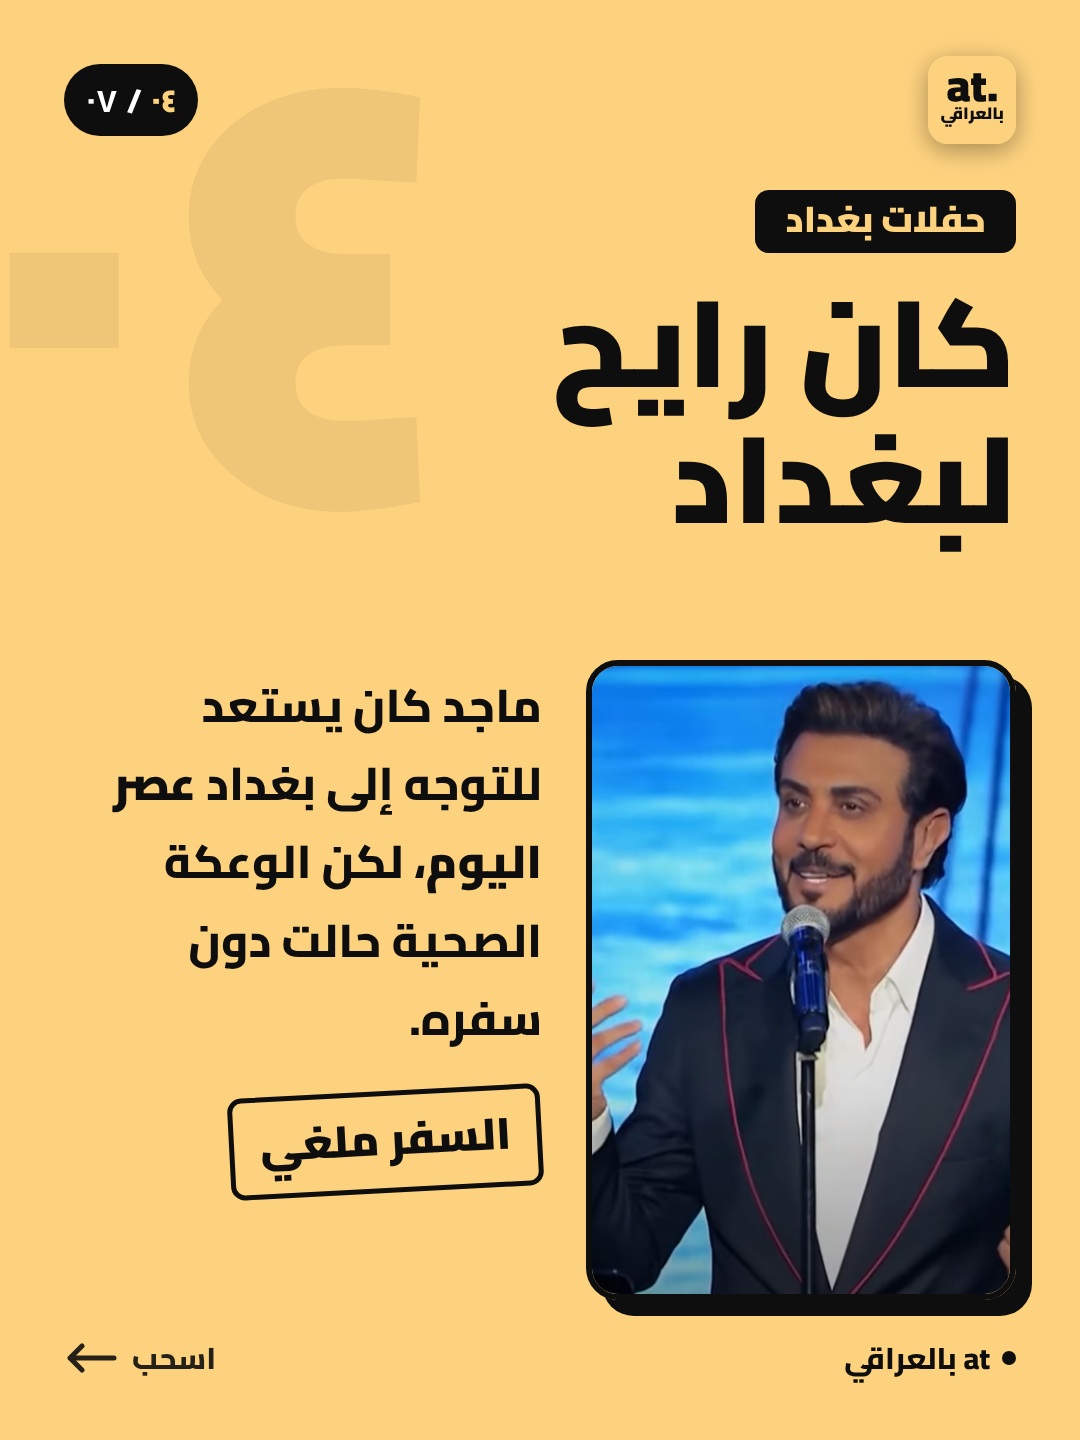
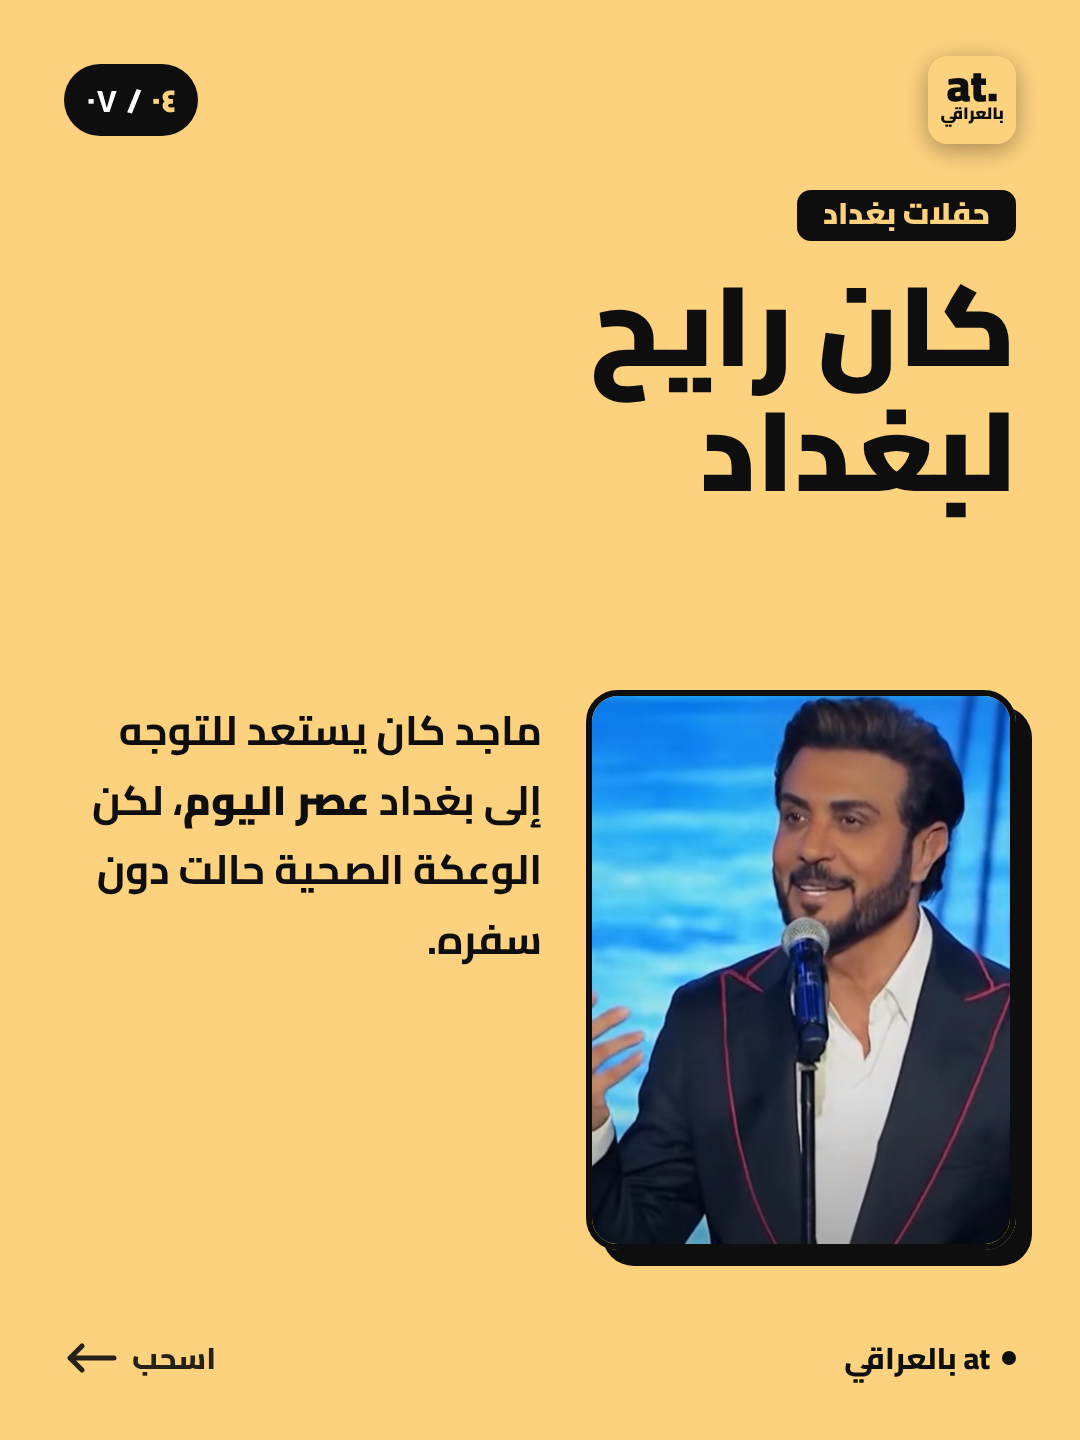
Simplify carousel typography and layout
Claude-Session: https://claude.ai/code/session_01RScGTdhGvBmbeKDUXMKRjS

diff --git a/carousels/majed-health/carousel.html b/carousels/majed-health/carousel.html
@@ -21,9 +21,9 @@ body{background:#222;font-family:Cairo,sans-serif}
 .ftr .brand i{width:14px;height:14px;background:var(--y);border-radius:50%;display:block}
 .ftr .swipe{display:flex;align-items:center;gap:14px;color:#fff;opacity:.9}
 .ftr .swipe svg{width:54px;height:30px}
-.kick{display:inline-block;background:var(--y);color:var(--ink);font-weight:900;font-size:36px;padding:6px 30px 10px;border-radius:14px;line-height:1.3}
+.kick{display:inline-block;background:var(--y);color:var(--ink);font-weight:900;font-size:30px;padding:4px 26px 8px;border-radius:14px;line-height:1.3}
 h1,h2{font-weight:900;line-height:1.12}
-.body{font-size:46px;font-weight:700;line-height:1.7;color:#f1f1f1}
+.body{font-size:41px;font-weight:600;line-height:1.7;color:#f1f1f1}
 .hl{color:var(--y)}
 .wrap{position:absolute;right:64px;left:64px;z-index:5}
 
@@ -31,9 +31,9 @@ h1,h2{font-weight:900;line-height:1.12}
 #s1 .ph{inset:0 0 auto 0;height:960px;background-image:url(img/s2.jpg);background-position:50% 22%}
 #s1 .shade{background:linear-gradient(180deg,rgba(14,14,14,.55) 0,rgba(14,14,14,0) 22%,rgba(14,14,14,0) 48%,#0e0e0e 70%)}
 #s1 .wrap{bottom:150px}
-#s1 h1{white-space:nowrap;font-size:132px;color:var(--y);margin:22px 0 0;line-height:1.0}
-#s1 h2{font-size:104px;color:#fff;margin-top:6px}
-#s1 .tease{margin-top:26px;font-size:42px;font-weight:700;color:#cfcfcf;display:flex;align-items:center;gap:16px}
+#s1 h1{white-space:nowrap;font-size:124px;color:var(--y);margin:22px 0 0;line-height:1.0}
+#s1 h2{font-size:76px;color:#fff;margin-top:6px}
+#s1 .tease{margin-top:26px;font-size:32px;font-weight:700;color:#cfcfcf;display:flex;align-items:center;gap:16px}
 #s1 .tease:before{content:"";width:70px;height:6px;background:var(--y);border-radius:4px}
 
 /* 2 medical */
@@ -42,15 +42,15 @@ h1,h2{font-weight:900;line-height:1.12}
 #s2 .card .shade{background:linear-gradient(180deg,rgba(0,0,0,.0) 60%,rgba(0,0,0,.45))}
 #s2 .tag{position:absolute;bottom:22px;right:26px;background:rgba(14,14,14,.8);color:#fff;font-weight:700;font-size:28px;padding:4px 20px 8px;border-radius:10px}
 #s2 .wrap{top:860px}
-#s2 h1{font-size:128px;margin:22px 0 22px}
+#s2 h1{font-size:112px;margin:22px 0 22px}
 #s2 .body{max-width:100%}
 
 /* 3 reassure */
 #s3 .ph{inset:0 0 auto 0;height:1000px;background-image:url(img/s4.jpg);background-position:50% 12%}
 #s3 .shade{background:linear-gradient(180deg,rgba(14,14,14,.55) 0,rgba(14,14,14,0) 22%,rgba(14,14,14,0) 45%,#0e0e0e 72%)}
 #s3 .wrap{bottom:150px}
-#s3 h1{font-size:200px;color:var(--y);margin:20px 0 14px;line-height:1.0}
-#s3 .body{font-size:44px}
+#s3 h1{font-size:156px;color:var(--y);margin:20px 0 14px;line-height:1.0}
+#s3 .body{font-size:41px}
 
 /* 4 baghdad (yellow) */
 #s4{background:var(--y);color:var(--ink)}
@@ -59,51 +59,51 @@ h1,h2{font-weight:900;line-height:1.12}
 #s4 .ftr .brand{color:var(--ink)}#s4 .ftr .brand i{background:var(--ink)}#s4 .ftr .swipe{color:var(--ink)}
 #s4 .big{position:absolute;top:-30px;left:-40px;font-size:620px;font-weight:900;color:rgba(14,14,14,.06);line-height:1;z-index:1;direction:ltr}
 #s4 .top{top:190px}
-#s4 h1{font-size:122px;margin:22px 0 0;color:var(--ink)}
-#s4 .row{position:absolute;top:660px;right:64px;left:64px;display:flex;gap:44px;align-items:flex-start;z-index:5}
-#s4 .photo{flex:0 0 430px;height:640px;border-radius:32px;overflow:hidden;border:6px solid var(--ink);box-shadow:16px 16px 0 var(--ink);position:relative}
+#s4 h1{font-size:112px;margin:22px 0 0;color:var(--ink)}
+#s4 .row{position:absolute;top:690px;right:64px;left:64px;display:flex;gap:44px;align-items:flex-start;z-index:5}
+#s4 .photo{flex:0 0 430px;height:560px;border-radius:32px;overflow:hidden;border:6px solid var(--ink);box-shadow:16px 16px 0 var(--ink);position:relative}
 #s4 .photo .ph{inset:0;background-image:url(img/s3.jpg);background-position:50% 20%}
 #s4 .txt{flex:1;padding-top:6px}
-#s4 .txt .body{color:var(--ink);font-size:46px;font-weight:800}
-#s4 .stamp{margin-top:34px;display:inline-block;border:5px solid var(--ink);padding:2px 26px 8px;font-size:44px;font-weight:900;border-radius:14px;transform:rotate(-3deg)}
+#s4 .txt .body{color:var(--ink);font-size:41px;font-weight:700}
+#s4 .stamp{margin-top:34px;display:inline-block;border:5px solid var(--ink);padding:2px 26px 8px;font-size:32px;font-weight:900;border-radius:14px;transform:rotate(-3deg)}
 
 /* 5 orchestra */
-#s5 .wrap.top{top:190px}
-#s5 h1{font-size:112px;margin:22px 0 0}
-#s5 .row{position:absolute;top:580px;right:64px;left:64px;display:flex;gap:40px;align-items:flex-start;z-index:5}
-#s5 .photo{flex:0 0 380px;height:380px;border-radius:30px;overflow:hidden;border:6px solid var(--y);position:relative}
+#s5 .wrap.top{top:300px}
+#s5 h1{font-size:100px;margin:22px 0 0}
+#s5 .row{position:absolute;top:720px;right:64px;left:64px;display:flex;gap:40px;align-items:flex-start;z-index:5}
+#s5 .photo{flex:0 0 440px;height:440px;border-radius:30px;overflow:hidden;border:6px solid var(--y);position:relative}
 #s5 .photo .ph{inset:0;background-image:url(img/s1.jpg);background-position:50% 30%}
 #s5 .txt{flex:1}
-#s5 .txt .body{font-size:44px}
+#s5 .txt .body{font-size:40px}
 #s5 .tl{position:absolute;top:1010px;right:64px;left:64px;z-index:5;border-top:2px solid #333;padding-top:34px}
 #s5 .step{display:flex;gap:22px;align-items:flex-start;margin-bottom:14px}
 #s5 .step .d{flex:0 0 22px;height:22px;border-radius:50%;background:var(--y);margin-top:22px}
 #s5 .step.off .d{background:transparent;border:5px solid var(--y)}
-#s5 .step b{display:block;color:var(--y);font-size:30px;font-weight:800}
-#s5 .step span{font-size:38px;font-weight:700;line-height:1.4}
+#s5 .step b{display:block;color:var(--y);font-size:26px;font-weight:800}
+#s5 .step span{font-size:32px;font-weight:700;line-height:1.4}
 
 /* 6 new date */
 #s6 .wrap.top{top:190px}
-#s6 h1{font-size:118px;margin:22px 0 0}
+#s6 h1{font-size:108px;margin:22px 0 0}
 #s6 .cal{position:absolute;top:610px;right:64px;left:64px;height:470px;background:#fff;border-radius:40px;overflow:hidden;z-index:5;color:var(--ink);box-shadow:0 30px 80px rgba(0,0,0,.5)}
-#s6 .cal .bar{height:130px;background:var(--y);display:flex;align-items:center;justify-content:center;font-size:76px;font-weight:900}
+#s6 .cal .bar{height:110px;background:var(--y);display:flex;align-items:center;justify-content:center;font-size:56px;font-weight:900}
 #s6 .cal .mid{display:flex;flex-direction:column;align-items:center;justify-content:center;height:340px}
 #s6 .cal .mid small{font-size:44px;font-weight:700;color:#6e6e6e}
-#s6 .cal .mid strong{font-size:150px;font-weight:900;line-height:1.1}
+#s6 .cal .mid strong{font-size:128px;font-weight:900;line-height:1.1}
 #s6 .ring{position:absolute;top:-22px;width:30px;height:70px;border-radius:16px;background:var(--ink);z-index:6}
 #s6 .wrap.bot{top:1130px}
-#s6 .body{font-size:44px}
+#s6 .body{font-size:41px}
 
 /* 7 precedent + CTA */
 #s7 .ph{inset:0 0 auto 0;height:760px;background-image:url(img/s3.jpg);background-position:50% 18%;filter:grayscale(.2)}
 #s7 .shade{background:linear-gradient(180deg,rgba(14,14,14,.6) 0,rgba(14,14,14,.15) 24%,rgba(14,14,14,.35) 40%,#0e0e0e 58%)}
 #s7 .wrap.main{top:600px}
-#s7 h1{font-size:150px;color:var(--y);margin:20px 0 14px}
-#s7 .body{font-size:44px}
+#s7 h1{font-size:130px;color:var(--y);margin:20px 0 14px}
+#s7 .body{font-size:41px}
 #s7 .cta{position:absolute;bottom:130px;right:64px;left:64px;z-index:5;background:var(--y);color:var(--ink);border-radius:30px;padding:26px 36px;display:flex;align-items:center;gap:26px}
 #s7 .cta img{width:96px;height:96px;border-radius:22px}
-#s7 .cta div{font-size:38px;font-weight:900;line-height:1.35}
-#s7 .cta small{display:block;font-size:30px;font-weight:700;opacity:.8}
+#s7 .cta div{font-size:32px;font-weight:900;line-height:1.35}
+#s7 .cta small{display:block;font-size:26px;font-weight:700;opacity:.8}
 </style></head><body>
 
 <!-- 1 -->
@@ -145,14 +145,14 @@ h1,h2{font-weight:900;line-height:1.12}
 
 <!-- 4 -->
 <section class="slide" id="s4">
- <div class="big">٠٤</div>
+ 
  <div class="hdr"><img src="logo.svg" alt=""><div class="cnt"><b style="color:#FDD27F">٠٤</b> / ٠٧</div></div>
  <div class="wrap top"><span class="kick">حفلات بغداد</span><h1>كان رايح<br>لبغداد</h1></div>
  <div class="row">
   <div class="photo"><div class="ph"></div></div>
   <div class="txt">
    <p class="body">ماجد كان يستعد للتوجه إلى بغداد <b>عصر اليوم</b>، لكن الوعكة الصحية حالت دون سفره.</p>
-   <div class="stamp">السفر ملغي</div>
+   
   </div>
  </div>
  <div class="ftr"><div class="brand"><i></i>at بالعراقي</div><div class="swipe">اسحب<svg viewBox="0 0 54 30" fill="none" stroke="#0e0e0e" stroke-width="5" stroke-linecap="round" stroke-linejoin="round"><path d="M50 15H6M18 3L6 15l12 12"/></svg></div></div>
@@ -166,10 +166,6 @@ h1,h2{font-weight:900;line-height:1.12}
   <div class="photo"><div class="ph"></div></div>
   <div class="txt"><p class="body">الفرقة الموسيقية وصلت بغداد أمس بقيادة المايسترو <b>مدحت خميس</b> استعداداً للحفلين.</p></div>
  </div>
- <div class="tl">
-  <div class="step"><div class="d"></div><div><b>أمس</b><span>وصول الفرقة الموسيقية إلى بغداد</span></div></div>
-  <div class="step off"><div class="d"></div><div><b>اليوم</b><span>الوعكة الصحية تحول دون سفر ماجد</span></div></div>
- </div>
  <div class="ftr"><div class="brand"><i></i>at بالعراقي</div><div class="swipe">اسحب<svg viewBox="0 0 54 30" fill="none" stroke="#FDD27F" stroke-width="5" stroke-linecap="round" stroke-linejoin="round"><path d="M50 15H6M18 3L6 15l12 12"/></svg></div></div>
 </section>
 
@@ -179,7 +175,7 @@ h1,h2{font-weight:900;line-height:1.12}
  <div class="wrap top"><span class="kick">الموعد الجديد</span><h1>الحفلتان<br><span class="hl">اتأجلتا</span></h1></div>
  <div class="cal">
   <div class="bar">ديسمبر</div>
-  <div class="mid"><small>الموعد الجديد</small><strong>أواخر ديسمبر</strong></div>
+  <div class="mid"><strong>أواخر ديسمبر</strong></div>
  </div>
  <div class="ring" style="top:588px;right:210px"></div><div class="ring" style="top:588px;left:210px"></div>
  <div class="wrap bot"><p class="body"><b>مدحت خميس</b> أعلن عبر حساب <span class="hl">روتانا</span> تأجيل الحفلتين إلى أواخر ديسمبر.</p></div>
